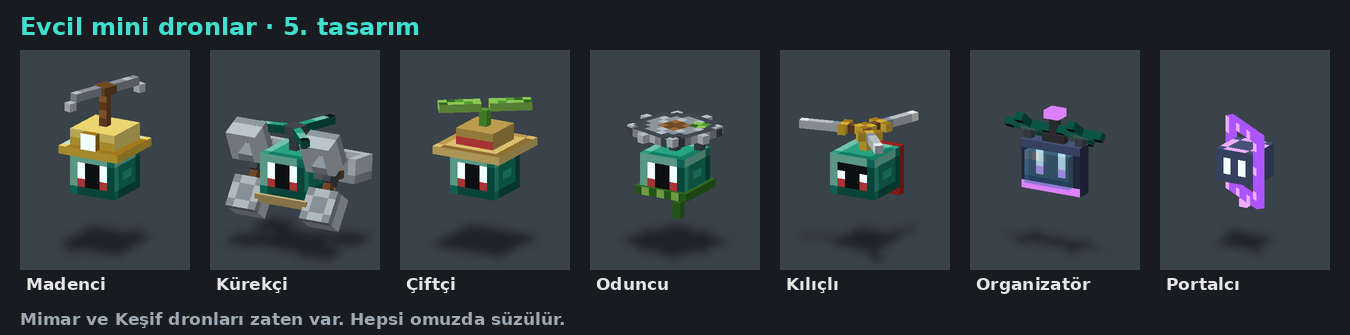
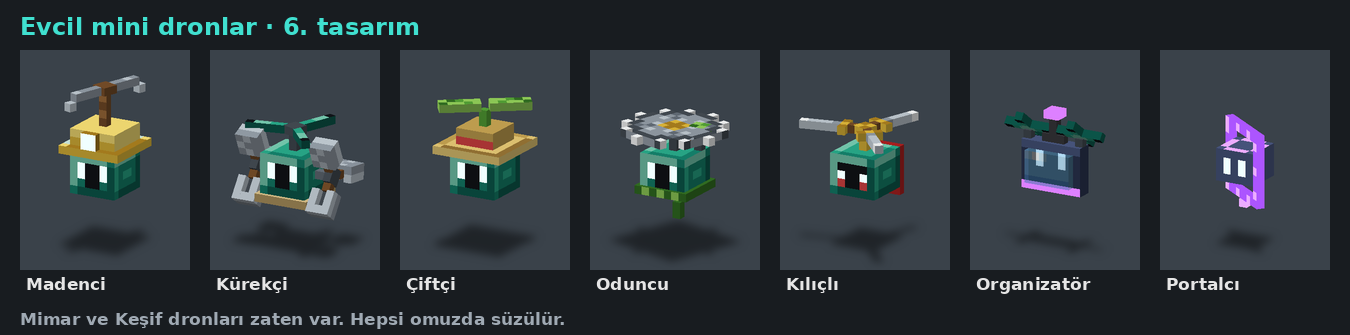
Evcil dronlar 6. tasarım: kırmızı yanak yalnız Kılıçlı'da, küçük sığ ters oyuk kaşık, Oduncu yuvarlak dişli testere + sırtta balta
Claude-Session: https://claude.ai/code/session_016dSUtqjRQFdnbyLYXoqgnG

diff --git a/aqualit/tasarim/evcil.py b/aqualit/tasarim/evcil.py
@@ -51,12 +51,9 @@ def yuz6(renk='M', sert=False):
     """Mimar dronundaki yüz (6x5): iki dik göz, gülen ağız, pembe yanaklar. sert: kısık gözler, düz ağız."""
     g = plate(6, 5, renk, top='H', bottom='D', left='H', right='D')
     put(g, ['WkkW', 'WkkW'] if not sert else ['kkkk', 'WkkW'], 1, 1)
+    g[3][2] = g[3][3] = 'k'
     if sert:
-        g[3][2] = g[3][3] = 'k'
-        g[3][1] = g[3][4] = 'R'
-    else:
-        g[3][2] = g[3][3] = 'k'
-        g[3][1] = g[3][4] = 'R'
+        g[3][1] = g[3][4] = 'R'      # kırmızı yanak işareti yalnız Kılıçlı'nın imzası
     return g
 
 
@@ -84,15 +81,14 @@ def madenci(f):
 
 
 def kasik(f, bone, ad, cx, y0):
-    """Gerçekten oyuk kaşık (kürek ağzı): sap + 4x4 kaşık; arkası kapalı plaka, kenarları 1 piksel kabarık, içi boş (koyu oyuk).
-    Kemiğin yerel +y yönüne uzanır; oyuk yüz +z'ye (dönüş yönüne) bakar."""
-    kutu(f, bone, ad + '_sap', (cx - 0.5, y0 + 1, -0.5), (cx + 0.5, y0 + 2, 0.5), base='m', front=rows('o'))
-    kutu(f, bone, ad + '_arka', (cx - 2, y0 + 2, -1), (cx + 2, y0 + 6, 0), base='*', front=fill(4, 4, '%'),
-         back=rows('*++*', '+**+', '+**+', '*++*'))
-    kutu(f, bone, ad + '_kenar_l', (cx - 2, y0 + 2, 0), (cx - 1, y0 + 6, 2), base='+')
-    kutu(f, bone, ad + '_kenar_r', (cx + 1, y0 + 2, 0), (cx + 2, y0 + 6, 2), base='+')
-    kutu(f, bone, ad + '_kenar_u', (cx - 1, y0 + 5, 0), (cx + 1, y0 + 6, 2), base='+')
-    kutu(f, bone, ad + '_kenar_a', (cx - 1, y0 + 2, 0), (cx + 1, y0 + 3, 2), base='*')
+    """Küçük, sığ oyuk kaşık: sap + 3x3 kaşık; plaka arkada, kenarları (sol, sağ, uç) 1 piksel kabarık, ortası boş.
+    Oyuk -z'ye bakar (v5'te ters ve çok derindi)."""
+    kutu(f, bone, ad + '_sap', (cx - 0.5, y0 + 1, -0.5), (cx + 0.5, y0 + 2, 0.5), base='m')
+    kutu(f, bone, ad + '_arka', (cx - 1.5, y0 + 2, 0), (cx + 1.5, y0 + 5, 1), base='*', back=fill(3, 3, '%'),
+         front=rows('*+*', '+**', '*+*'))
+    kutu(f, bone, ad + '_kenar_l', (cx - 1.5, y0 + 2, -1), (cx - 0.5, y0 + 5, 0), base='+')
+    kutu(f, bone, ad + '_kenar_r', (cx + 0.5, y0 + 2, -1), (cx + 1.5, y0 + 5, 0), base='+')
+    kutu(f, bone, ad + '_kenar_u', (cx - 0.5, y0 + 4, -1), (cx + 0.5, y0 + 5, 0), base='+')
 
 
 def kurekci(f):
@@ -130,26 +126,44 @@ def ciftci(f):
 
 
 def oduncu(f):
-    # yeşil atkı, antenin ucunda yaprak; tepede yatay dönen daire testere (dişli kenar, ahşap göbek)
+    # yeşil atkı, antenin ucunda yaprak, sırtta küçük balta; tepede yatay dönen daire testere
+    # (11 piksel çaplı yuvarlak disk, 12 sivri diş, pirinç göbek, iki kesik çizgi)
     govde6(f)
     kutu(f, 'g', 'atki', (-3.5, 3, -3.5), (3.5, 4, 3.5), base='E', front=rows('EfEfEfE'), top=fill(7, 7, 'E'))
     kutu(f, 'g', 'atki_uc', (2, 1, 3), (3, 3, 4), base='E')
     kutu(f, 'g', 'anten', (2, 8, -2), (3, 10, -1), base='%')
     kutu(f, 'g', 'anten_yaprak', (1.5, 10, -2.5), (3.5, 11, -0.5), base='e', top=rows('fe', 'Ef'))
+    kutu(f, 'g', 'balta_sap', (-0.5, 3, -4), (0.5, 8, -3), base='m')
+    kutu(f, 'g', 'balta_agiz', (-0.5, 6, -5), (0.5, 8, -3), base='*', left=rows('+*', '**'), right=rows('*+', '**'))
     kutu(f, 'g', 'mil', (-0.5, 8, -0.5), (0.5, 10, 0.5), base='%')
     f.bone('p_testere', 'g', (0, 10.5, 0))
-    # testere diski: 9x9 yaklaşık daire, kenarda dişler, ortada ahşap göbek
+    n = 11
     disk = []
-    for zz in range(9):
+    for zz in range(n):
         r = []
-        for xx in range(9):
-            d = ((xx - 4) ** 2 + (zz - 4) ** 2) ** 0.5
-            r.append(' ' if d > 4.6 else ('m' if d < 1.2 else ('o' if d < 1.8 else ('%' if d > 3.6 else ('+' if (xx + zz) % 3 == 0 else '*')))))
+        for xx in range(n):
+            d = ((xx - 5) ** 2 + (zz - 5) ** 2) ** 0.5
+            if d > 5.3:
+                r.append(' ')
+            elif d < 1.3:
+                r.append('Q')
+            elif d < 2.0:
+                r.append('y')
+            elif d > 4.4:
+                r.append('%')
+            elif (xx == zz or xx + zz == 10) and d > 2.4:
+                r.append('&')                # kesik çizgileri
+            else:
+                r.append('+' if (xx * 3 + zz) % 5 == 0 else '*')
         disk.append(r)
-    kutu(f, 'p_testere', 'disk', (-4.5, 10, -4.5), (4.5, 11, 4.5), base='*', top=disk, bottom=[r[:] for r in disk],
-         front=rows(' %*+*+*% '), back=rows(' %*+*+*% '), left=rows(' %*+*+*% '), right=rows(' %*+*+*% '))
-    for k, (x, z) in enumerate(((5, 0), (-5, 0), (0, 5), (0, -5), (3.5, 3.5), (-3.5, 3.5), (3.5, -3.5), (-3.5, -3.5))):
-        kutu(f, 'p_testere', f'dis{k}', (x - 0.5, 10, z - 0.5), (x + 0.5, 11, z + 0.5), base='+')
+    kutu(f, 'p_testere', 'disk', (-5.5, 10, -5.5), (5.5, 11, 5.5), base='*', top=disk, bottom=[r[:] for r in disk],
+         front=[[' ', ' ', '%'] + ['*'] * 5 + ['%', ' ', ' ']], back=[[' ', ' ', '%'] + ['*'] * 5 + ['%', ' ', ' ']],
+         left=[[' ', ' ', '%'] + ['*'] * 5 + ['%', ' ', ' ']], right=[[' ', ' ', '%'] + ['*'] * 5 + ['%', ' ', ' ']])
+    import math as _m
+    for k in range(12):
+        a = k * 30
+        x, z = round(_m.cos(_m.radians(a)) * 6 * 2) / 2, round(_m.sin(_m.radians(a)) * 6 * 2) / 2
+        kutu(f, 'p_testere', f'dis{k}', (x - 0.5, 10, z - 0.5), (x + 0.5, 11, z + 0.5), base='9')
 
 
 def kilicli(f):
@@ -177,7 +191,6 @@ def organizator(f, cam=True):
             on[y][x] = 'k'
     put(on, ['WkkW', 'WkkW'], 2, 1)
     on[3][3] = on[3][4] = 'k'
-    on[3][2] = on[3][5] = 'P'
     kutu(f, 'g', 'tablet', (-4, 3, -1), (4, 9, 1), base='1', front=on, glow='WP',
          top=fill(8, 2, '3'), back=fill(8, 6, '2'))
     if cam:
@@ -254,5 +267,5 @@ if __name__ == '__main__':
     print(Z.gif(frames, os.path.join(OUT, '84_evcil_dronlar.gif'), ms=60))
     imgs = [(ciz(tur, Z.Cam(yaw=30, elev=18, scale=8.5, size=(170, 220), center=(0, 7, 0)), 0.1, M, C), ADLAR[tur])
             for tur in TURLER]
-    print(kart('Evcil mini dronlar · 5. tasarım', imgs, os.path.join(OUT, '84_evcil_dronlar.png'),
+    print(kart('Evcil mini dronlar · 6. tasarım', imgs, os.path.join(OUT, '84_evcil_dronlar.png'),
                alt='Mimar ve Keşif dronları zaten var. Hepsi omuzda süzülür.'))
